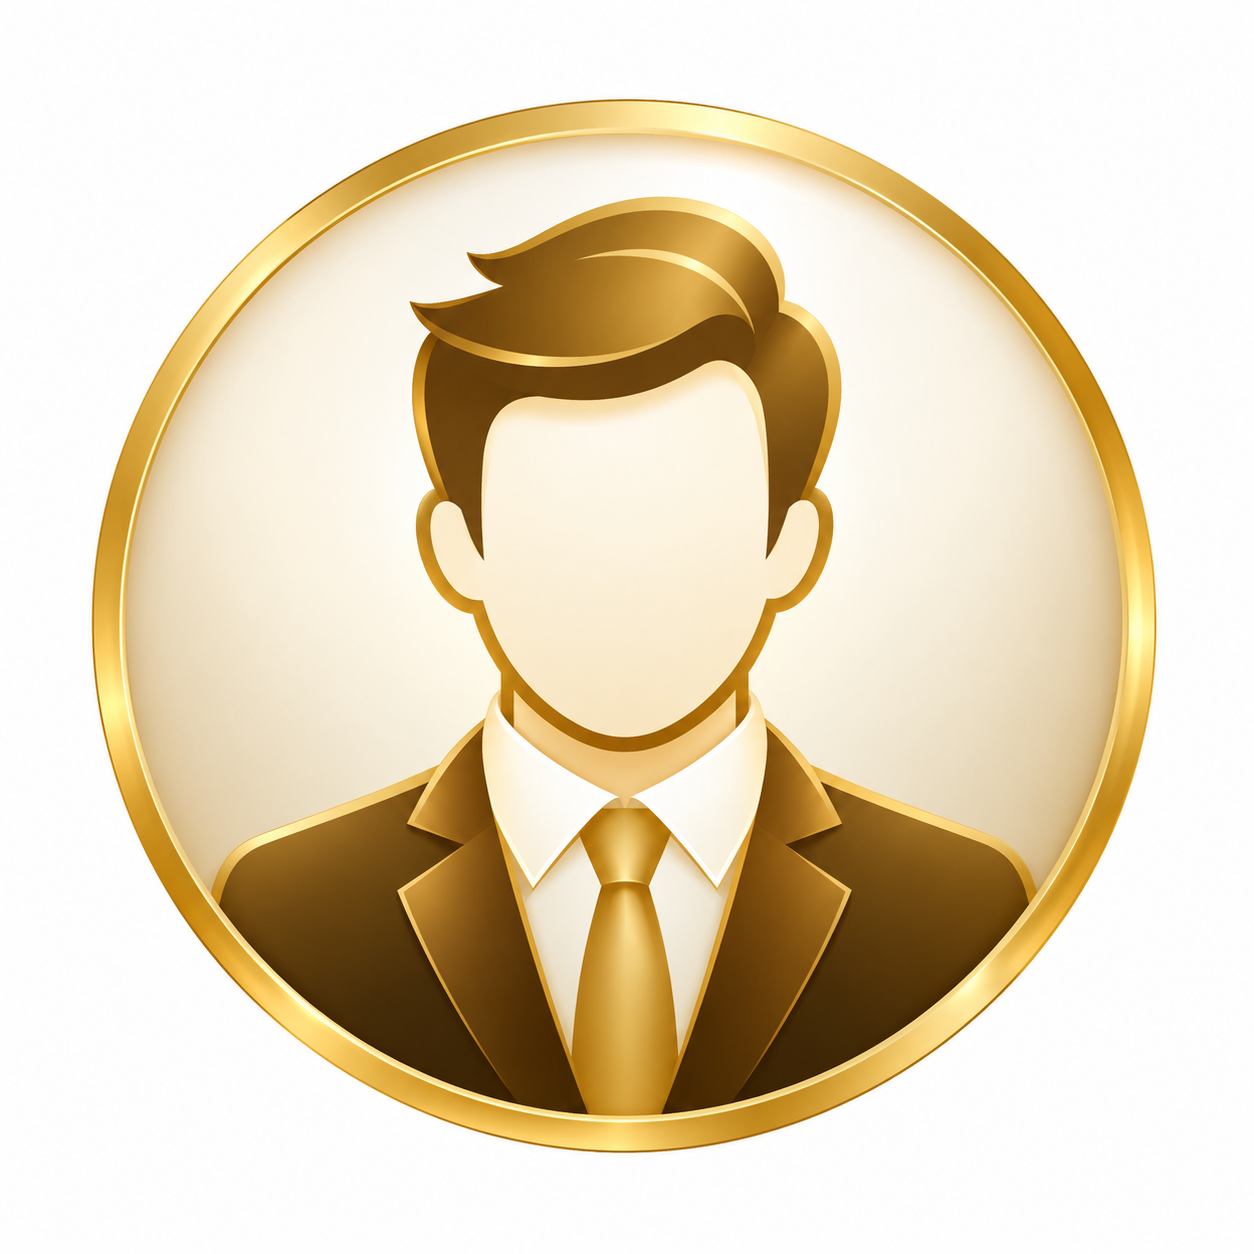
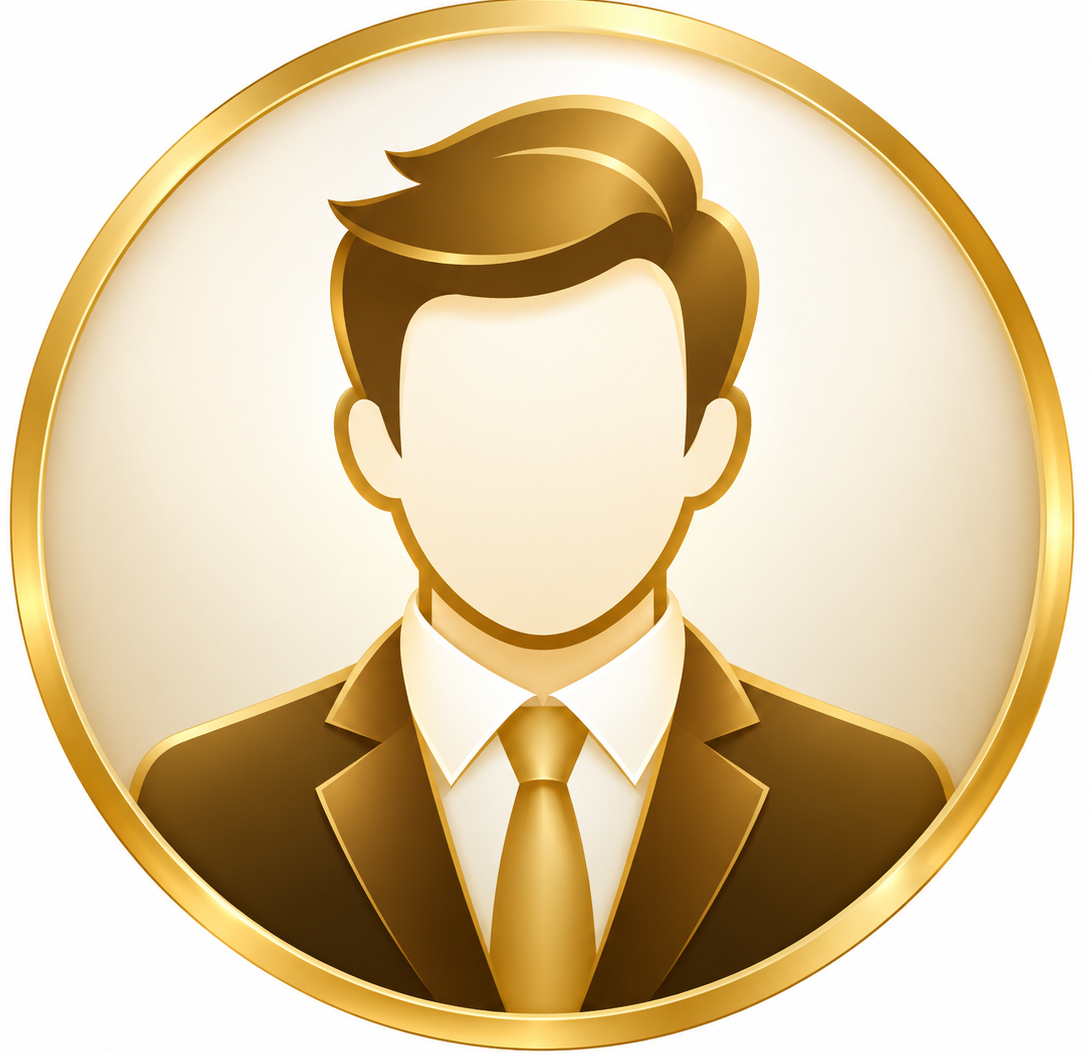
fix it

diff --git a/src/Componets/Home/TestimonialsSection/TestimonialsSection.jsx b/src/Componets/Home/TestimonialsSection/TestimonialsSection.jsx
@@ -145,23 +145,23 @@ const TestimonialsSection = () => {
                 />
 
                 <div className="relative z-10 flex h-full flex-col gap-5 p-5 sm:p-6">
-                  <div className="flex items-center gap-4">
-                    <div className="relative h-[68px] w-[68px] shrink-0 sm:h-[76px] sm:w-[76px]">
-                      {/* Gold circular frame */}
-                      <div
-                        className="absolute -inset-[3px] rounded-full bg-gradient-to-br from-[var(--gold-bright)] via-[var(--gold-primary)]/50 to-[var(--gold-bright)]/20"
-                        aria-hidden="true"
-                      />
+                 <div className="flex w-full justify-center">
+  <div className="relative flex h-[68px] w-[68px] shrink-0 items-center justify-center sm:h-[76px] sm:w-[76px]">
+    {/* Gold circular frame */}
+    <div
+      className="absolute -inset-[3px] rounded-full bg-gradient-to-br from-[var(--gold-bright)] via-[var(--gold-primary)]/50 to-[var(--gold-bright)]/20"
+      aria-hidden="true"
+    />
 
-                      {/* Male/Female profile image */}
-                      <img
-                        src={avatar}
-                        alt={`${name} profile`}
-                        className="relative z-10 h-full w-full rounded-full border-2 border-[var(--bg-primary)] object-cover"
-                        loading="lazy"
-                      />
-                    </div>
-                  </div>
+    {/* Centered profile image */}
+    <img
+      src={avatar}
+      alt={`${name} profile`}
+      className="relative z-10 block h-full w-full rounded-full border-2 border-[var(--bg-primary)] object-cover object-center"
+      loading="lazy"
+    />
+  </div>
+</div>
 
                   <div className="relative flex-1 pl-7">
                     <Quote className="absolute -left-1 top-0 h-6 w-6 rotate-180 fill-[var(--gold-primary)]/40 text-[var(--gold-primary)]/40" aria-hidden="true" />
